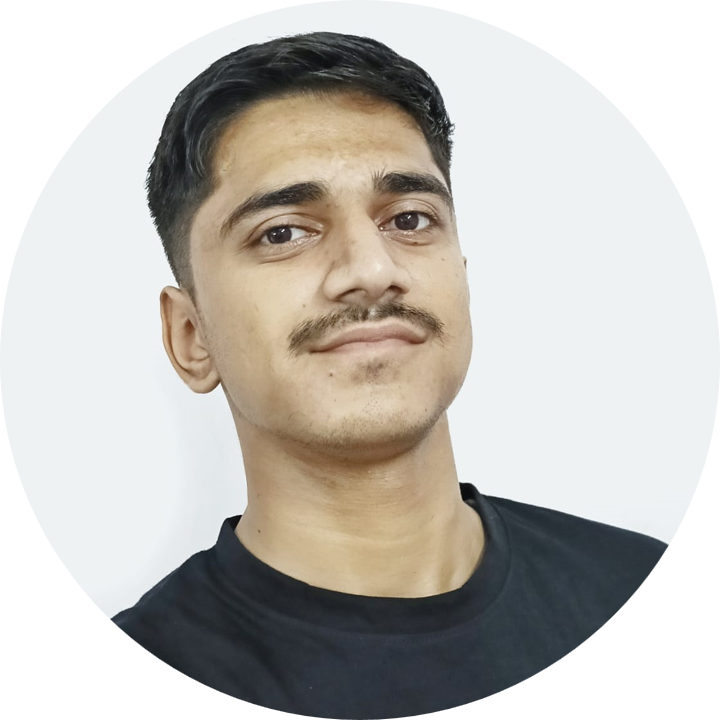
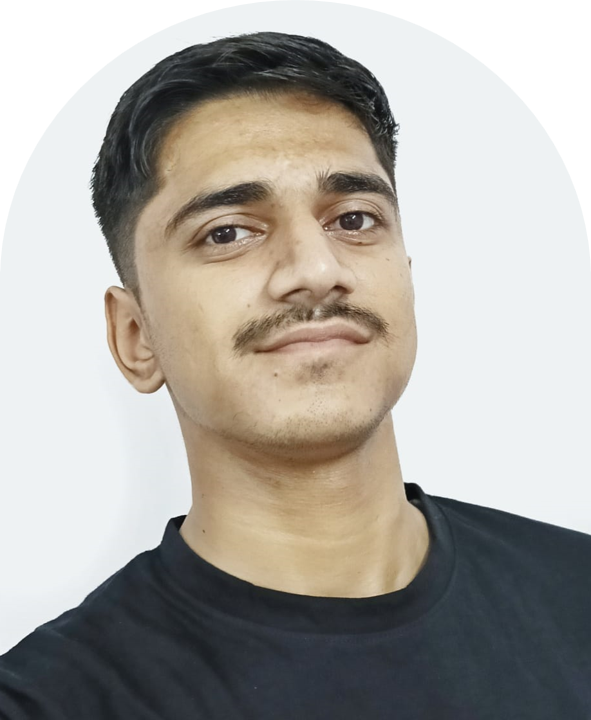
Add files via upload

Changed region(s): [[0.0, 0.0306, 1.0, 1.0], [0.4569, 0.7944, 0.4873, 0.825], [0.3959, 0.4583, 0.4264, 0.4889]]

diff --git a/personal_site.html b/personal_site.html
@@ -2,40 +2,28 @@
 <html>
     <head>
         <title>Personal Info</title>
-        <style>
-            body{
-                font-family: monospace;
-            }
-            .profile_pic{
-                position: absolute;
-                top: 14%;
-                right: 9%;
-            }
-            .txt{
-                font-size: 20px;
-            }
-        </style>
+        <link rel="stylesheet" href="personal_site.css">
+        <link href='https://fonts.googleapis.com/css?family=ADLaM Display' rel='stylesheet'>
     </head>
     <body>
-        <h3>homepage of</h3>
-        <h1 class="u_name">Dhruva Majoka</h1>
-        <hr>
-        <img src="pic.png" height="200px" class="profile_pic">
-        <p class="txt">
-            <b>Student of First Year<br>
-            <a href="https://www.iitrpr.ac.in/">IIT Ropar</a><br><br></b>
-            <i>dk30nov2005@gmail.com</i>
+        <img src="cloud.png" class="pic_2">
+        <h1 class="name">I'm Dhruvá.</h1>
+        <img src="pic.png" class="pic">
+        <h3 class="name_1">I'm a Junior Web Developer working remotely from Punjab, India.</h3>
+        <p class="name_2">This is my first project on web development. It is inspired by website developed by Mr. Seán.<br>
+        These days, I am studying in Indian Institute of Technology Ropar.
         </p>
-        <ul>
-            <li>Completed Senior Secondary Education from Guru Harkrishan Public School</li>
-            <li>Hobbies are:
-                <ul>
-                <li>Drawing</li>
-                <li>Watching News by <a href="https://www.youtube.com/@SundaySarthak">Sarthak</a></li>
-                <li>Playing <a href="https://en.wikipedia.org/wiki/Football">Football</a></li>
-                </ul>
-            </li>
-            <li>Pursuing my undergrad from IIT Ropar</li>
+        <a href="mailto:dk30nov2005@gmail.com" class="contact_me">Contact Me</a>
+        <p class="description">So this is just beginning of my coding journey so I don't have much to say. For now this site will act as diary which will contain all my project.<br>
+        For this project I used help of following sites and people:</p>
+        <ul class="list">
+            <li>Seán's Website</li>
+            <li>Angela Yu Tutorial</li>
+            <li>Color Hunt [for color pallate]</li>
+            <li>W3Schools</li>
+            <li>StackOverFlow</li>
+            <li>Devdocs</li>
+            <li>MDN HTML Dictionary</li>
         </ul>
     </body>
 </html>

diff --git a/personal_site.css b/personal_site.css
@@ -1,0 +1,90 @@
+.name{
+    color: #81DAE3;
+    position: absolute;
+    top: 170px;
+    left: 35%;
+    font-family: ADLaM Display;
+    font-size: 100px;
+}
+
+.name_1{
+    color: #81DAE3;
+    position: absolute;
+    top: 50%;
+    left: 35%;
+    font-family: ADLaM Display;
+    font-size: 50px;
+}
+
+.name_2{
+    color: #81DAE3;
+    position: absolute;
+    top: 75%;
+    left: 35%;
+    font-size: 25px;
+    width: 700px;
+    font-family: 'Barlow Semi Condensed';
+}
+
+.pic{
+    height: 450px;
+    position: absolute;
+    left: 5%;
+    top: 30%;
+}
+
+.contact_me{
+    position: absolute;
+    left: 47%;
+    border: solid;
+    border-width: 4px;
+    border-radius: 40px;
+    background-color: #ffe1c1;
+    color: #825B32;
+    border-color: #825B32;
+    font-family: 'Barlow Semi Condensed';
+    font-size: 25px;
+    transition: 0.6s;
+    text-decoration: none;
+    padding: 10px;
+}
+.contact_me:hover{
+    position: absolute;
+    left: 46.5%;
+    border: solid;
+    border-width: 4px;
+    border-radius: 10px;
+    background-color: #825B32;
+    color: white;
+    border-color: #825B32;
+    font-family: 'Barlow Semi Condensed';
+    font-size: 28px;
+    transition: 0.6s;
+    text-decoration: none;
+}
+
+.description{
+    color: black;
+    position: absolute;
+    top: 105%;
+    left: 15%;
+    width: 1100px;
+    font-size: 25px;
+    font-family: 'Barlow Semi Condensed';
+}
+
+.pic_2{
+    height: 750px;
+    width: 1517px;
+    position: absolute;
+    top: 0px;
+    left: 0px;
+}
+
+.list{
+    position: absolute;
+    top: 120%;
+    left: 14%;
+    font-family: 'Barlow Semi Condensed';
+    font-size: 25px;
+}
